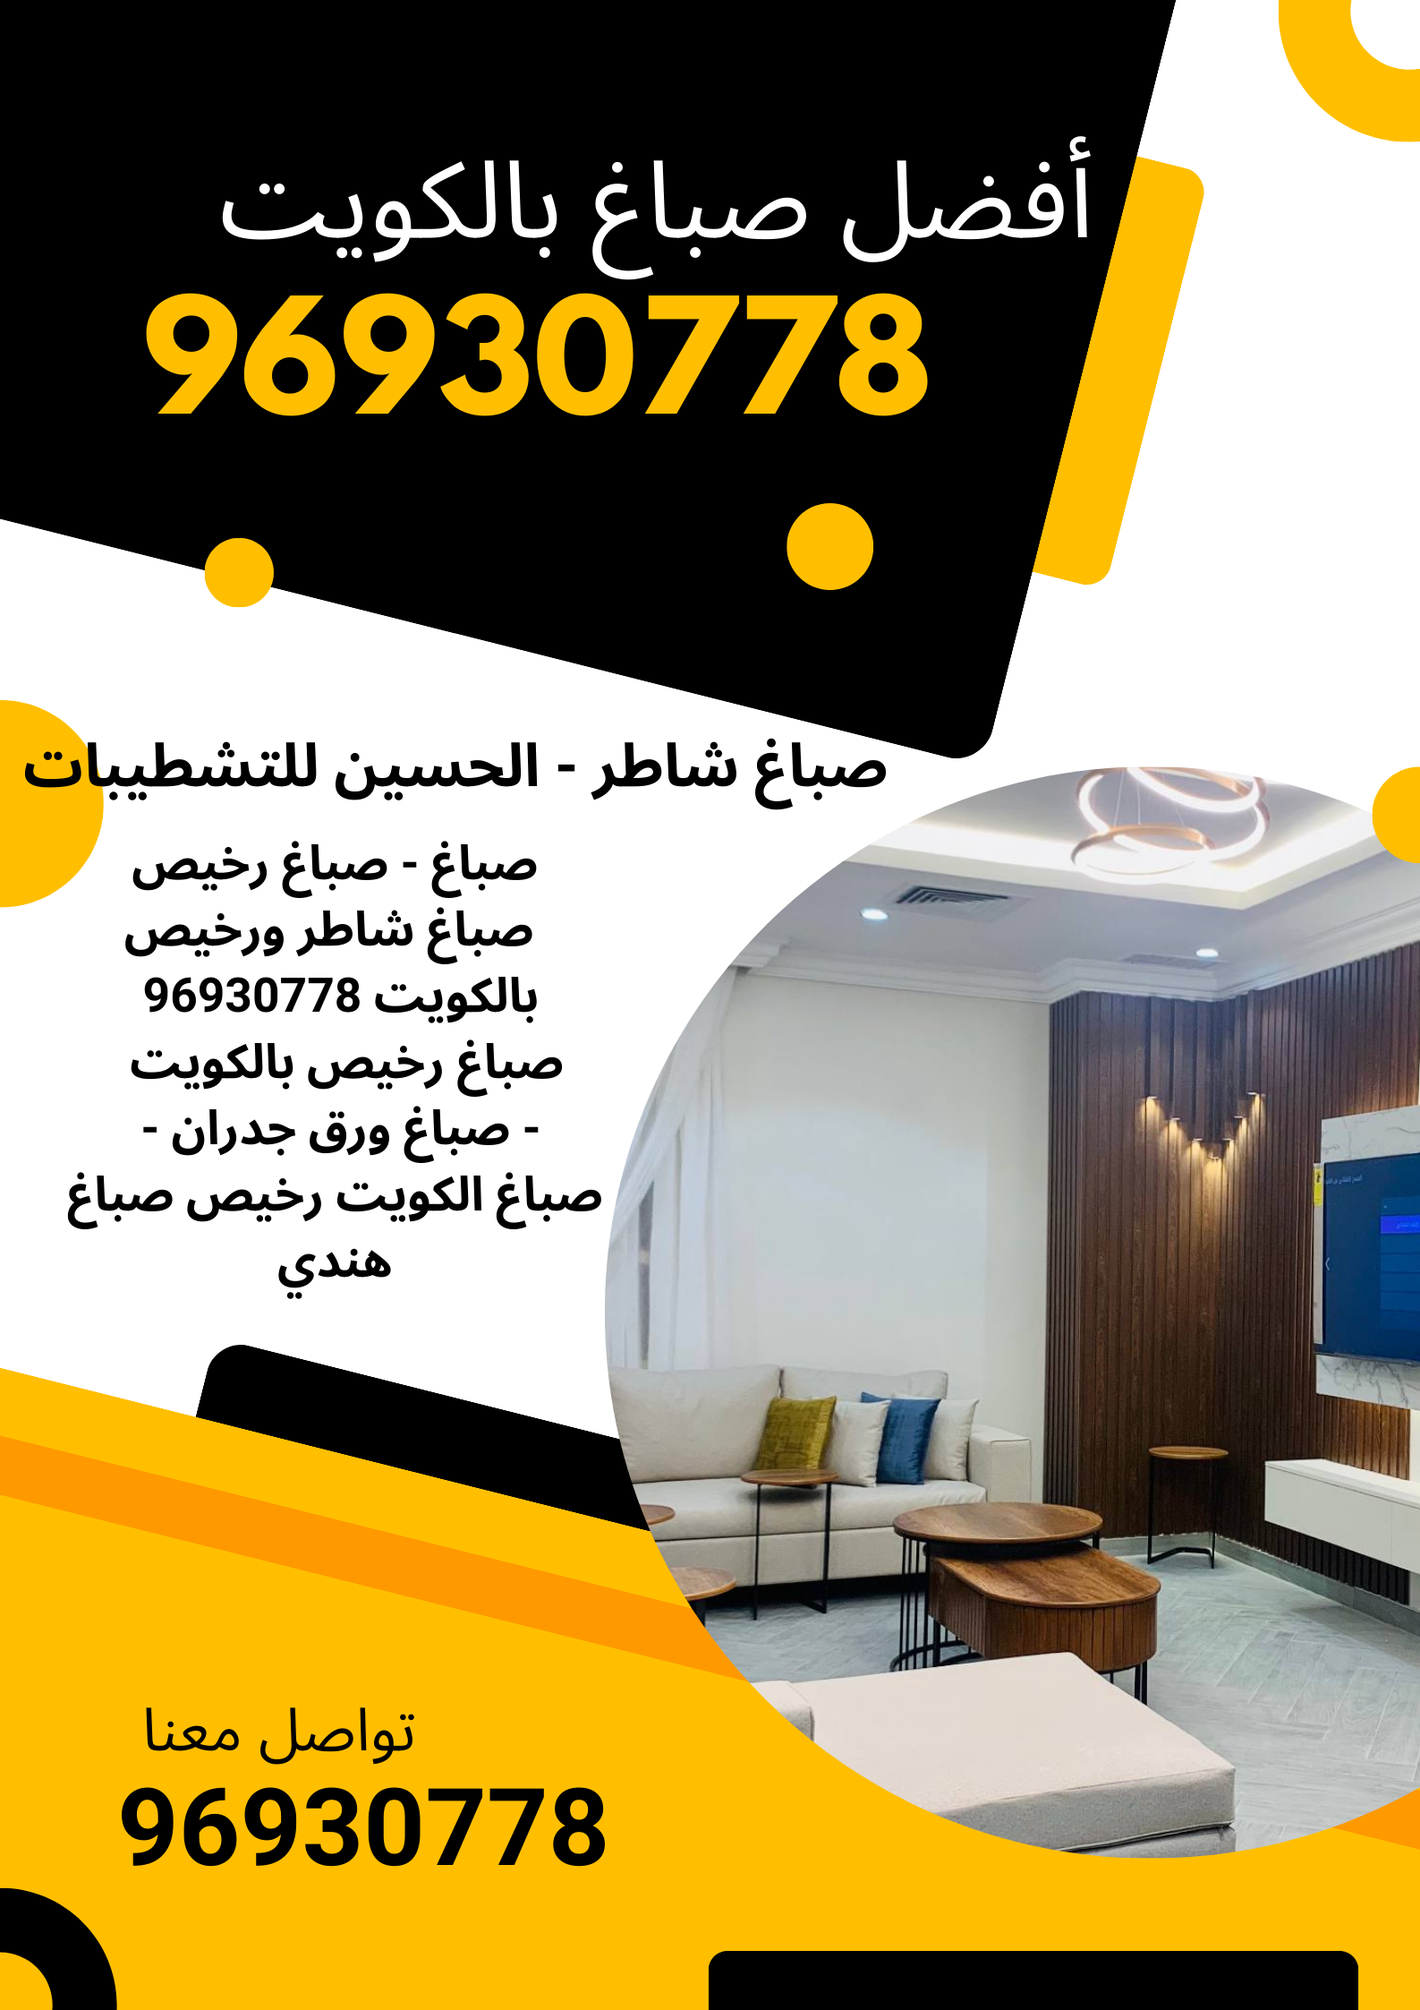
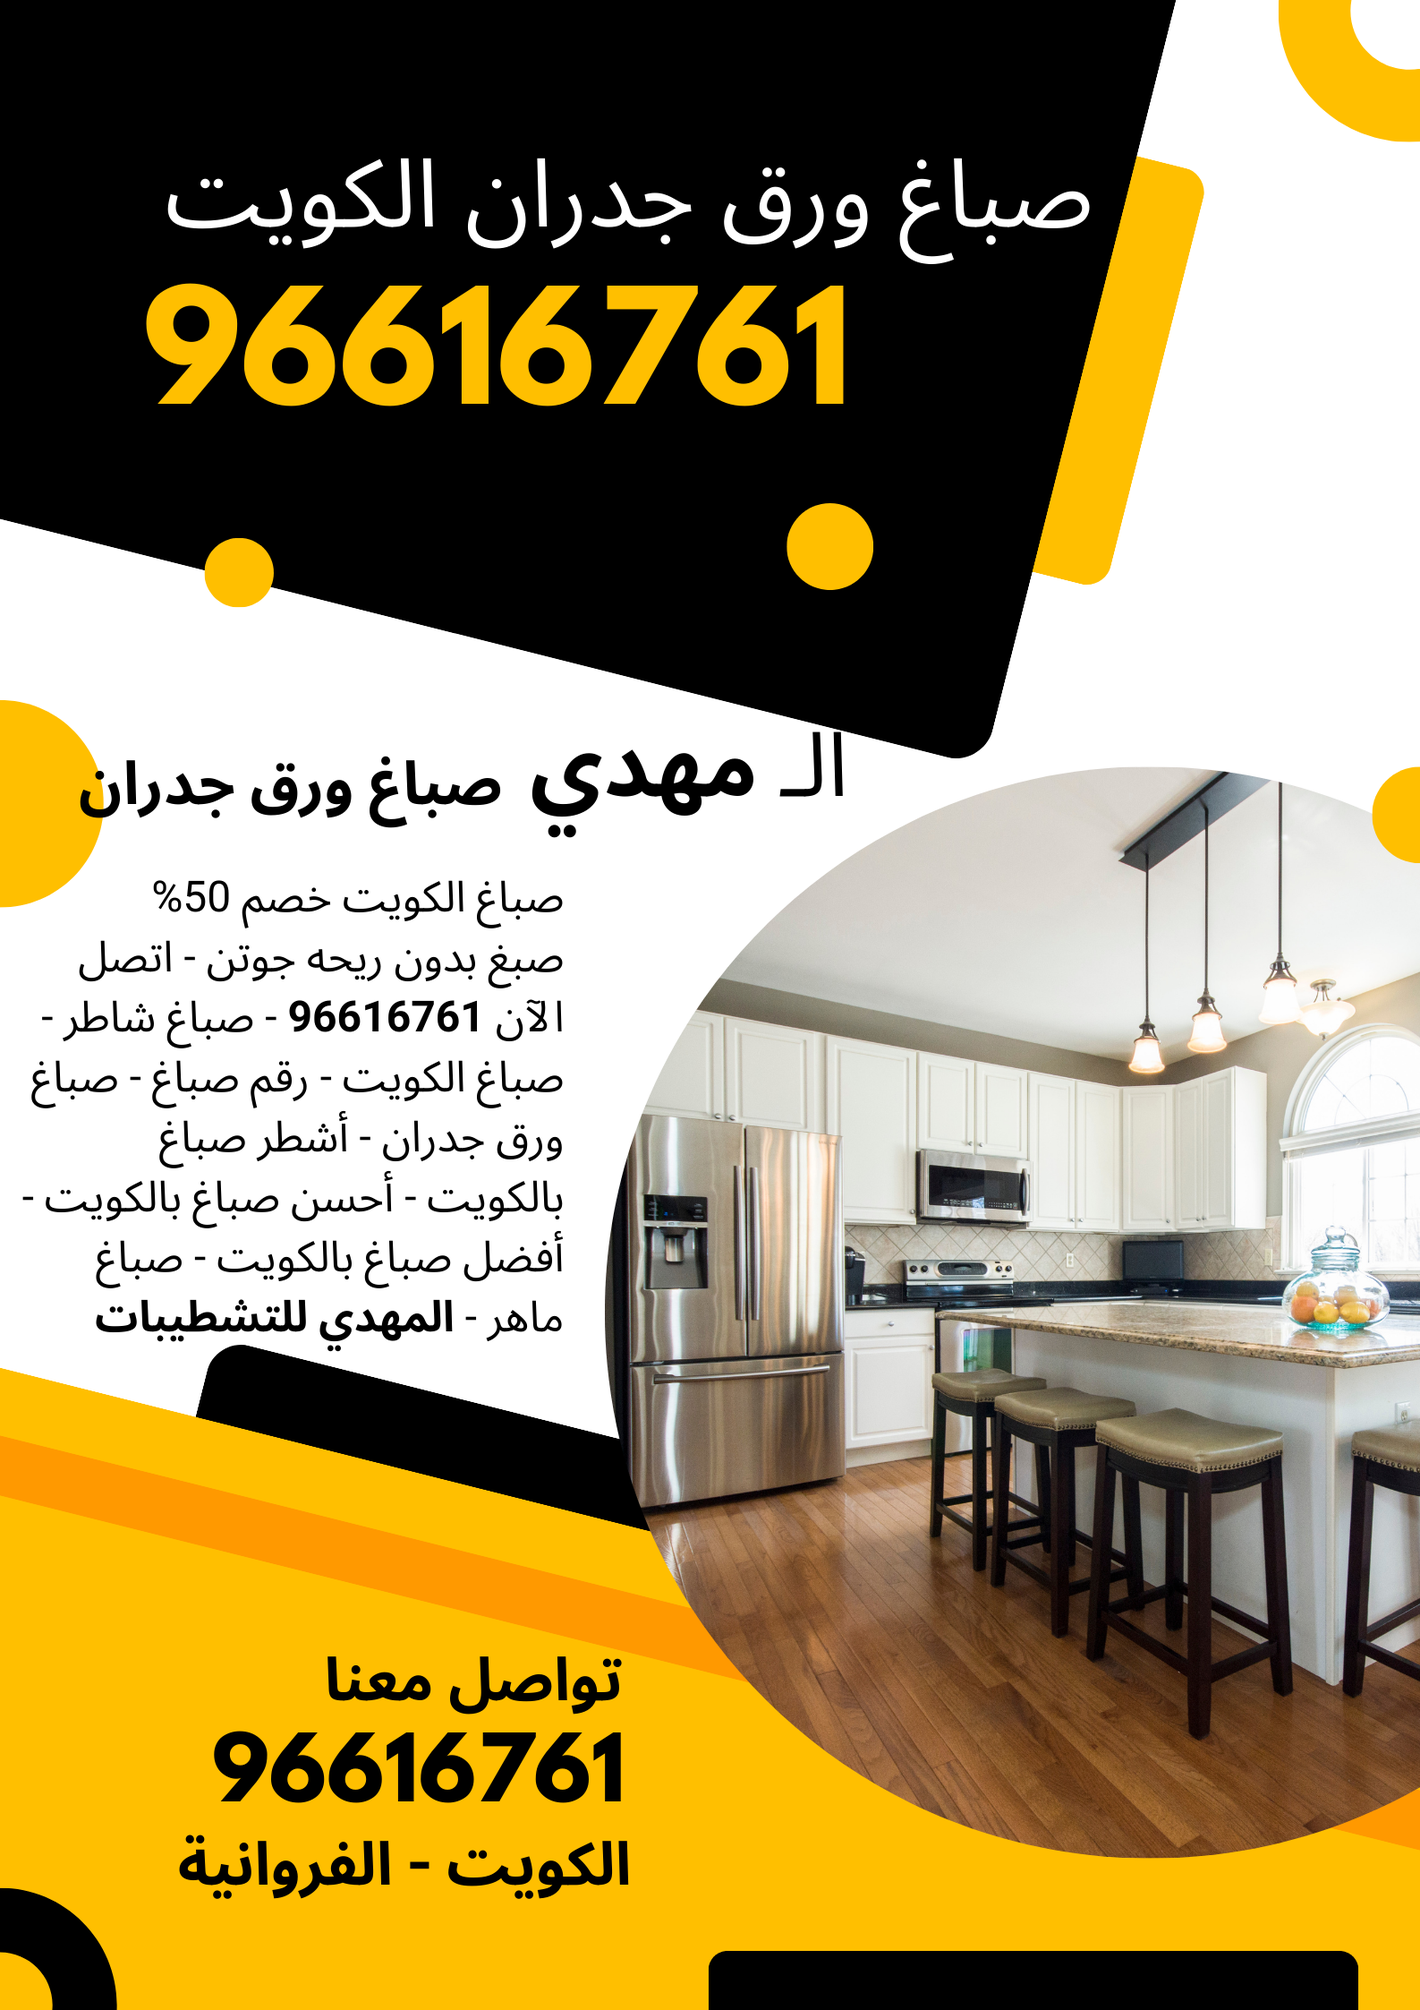
Edit title

diff --git a/index.html b/index.html
@@ -6,12 +6,7 @@
     <meta name="viewport" content="width=device-width, initial-scale=1.0" />
 
     <!-- Title -->
-    <title>
-      صباغ - صباغ رخيص - صباغ شاطر ورخيص - بالكويت 96616761 - صباغ رخيص بالكويت
-      - رقم صباغ رخيص - صباغ ورق جدران - صباغ الكويت رخيص - صباغ هندي - أشطر
-      صباغ بالكويت - أحسن صباغ بالكويت - أفضل صباغ بالكويت - صباغ ماهر - الحسين
-      للتشطيبات
-    </title>
+    <title>صباغ الكويت ✔🇰🇼 خصم 50% أفضل خدمة صباغة - اتصل الآن 96616761 - صبغ بدون ريحه جوتن - صباغ شاطر - رقم صباغ - صباغ ورق جدران - أشطر صباغ بالكويت - أحسن صباغ بالكويت - أفضل صباغ بالكويت - صباغ ماهر - المهدي للتشطيبات</title>
 
     <link
       rel="icon"
@@ -86,7 +81,7 @@
     <!-- Open Graph Tags -->
     <meta
       property="og:title"
-      content="صباغ - صباغ رخيص - صباغ شاطر ورخيص - بالكويت 96616761 - صباغ رخيص بالكويت - رقم صباغ رخيص - صباغ ورق جدران - صباغ الكويت رخيص - صباغ هندي - آفضل وأحسن وأشطر صباغ بالكويت - صباغ ماهر - الحسين للتشطيبات"
+      content="صباغ - صباغ رخيص - صباغ شاطر ورخيص - بالكويت 96616761 - صباغ رخيص بالكويت - رقم صباغ رخيص - صباغ ورق جدران - صباغ الكويت رخيص - صباغ هندي - آفضل وأحسن وأشطر صباغ بالكويت - صباغ ماهر - المهدي للتشطيبات"
     />
     <meta
       property="og:description"
@@ -103,7 +98,7 @@
     <meta name="twitter:card" content="./img/bg1.webp" />
     <meta
       name="twitter:title"
-      content="صباغ - صباغ رخيص - صباغ شاطر ورخيص - بالكويت 96616761 - صباغ رخيص بالكويت - رقم صباغ رخيص - صباغ ورق جدران - صباغ الكويت رخيص - صباغ هندي - أفضل وأحسن وأشطر صباغ بالكويت - صباغ ماهر - الحسين للتشطيبات"
+      content="صباغ - صباغ رخيص - صباغ شاطر ورخيص - بالكويت 96616761 - صباغ رخيص بالكويت - رقم صباغ رخيص - صباغ ورق جدران - صباغ الكويت رخيص - صباغ هندي - أفضل وأحسن وأشطر صباغ بالكويت - صباغ ماهر - المهدي للتشطيبات"
     />
     <meta
       name="twitter:description"
@@ -133,7 +128,7 @@
       {
         "@context": "https://schema.org",
         "@type": "LocalBusiness",
-        "name": "صباغ - صباغ رخيص - صباغ شاطر ورخيص - بالكويت 96616761 - صباغ رخيص بالكويت - رقم صباغ رخيص - صباغ ورق جدران - صباغ الكويت رخيص - صباغ هندي - الحسين للتشطيبات",
+        "name": "صباغ - صباغ رخيص - صباغ شاطر ورخيص - بالكويت 96616761 - صباغ رخيص بالكويت - رقم صباغ رخيص - صباغ ورق جدران - صباغ الكويت رخيص - صباغ هندي - المهدي للتشطيبات",
         "description": "ال حسين للتشطيبات - خدمات تشطيب ودهان عالية الجودة في الكويت، بخبرة متميزة وأرخص الأسعار. احصل على أفضل صباغ بالكويت وتصميمات عصرية تضفي لمسة فنية لمنزلك. اتصل بنا اليوم على 96616761!",
         "url": "https://elhassan-dyer.com",
         "logo": "https://elhassan-dyer.com/img/bg1.webp",
@@ -185,8 +180,8 @@
         "@context": "https://schema.org",
         "@type": "ImageObject",
         "contentUrl": "https://elhassan-dyer.com/img/best-painter-kuwait.png",
-        "description": "صباغ - صباغ رخيص - صباغ شاطر ورخيص - بالكويت 96616761 - صباغ رخيص بالكويت - رقم صباغ رخيص - صباغ ورق جدران - صباغ الكويت رخيص - صباغ هندي - أفضل وأحسن وأشطر صباغ بالكويت - صباغ ماهر - الحسين للتشطيبات. احصل على أجمل التصاميم والدهانات بأسعار تنافسية",
-        "name": "أفضل صباغ بالكويت - الحسين للتشطيبات",
+        "description": "صباغ - صباغ رخيص - صباغ شاطر ورخيص - بالكويت 96616761 - صباغ رخيص بالكويت - رقم صباغ رخيص - صباغ ورق جدران - صباغ الكويت رخيص - صباغ هندي - أفضل وأحسن وأشطر صباغ بالكويت - صباغ ماهر - المهدي للتشطيبات. احصل على أجمل التصاميم والدهانات بأسعار تنافسية",
+        "name": "أفضل صباغ بالكويت - المهدي للتشطيبات",
         "url": "https://elhassan-dyer.com/"
       }
     </script>
@@ -196,7 +191,7 @@
         "@context": "https://schema.org",
         "@type": "ImageObject",
         "contentUrl": "https://elhassan-dyer.com/img/painter-kuwait-advertisement.png",
-        "description": "صباغ - صباغ رخيص - صباغ شاطر ورخيص - بالكويت 96616761 - صباغ رخيص بالكويت - رقم صباغ رخيص - صباغ ورق جدران - صباغ الكويت رخيص - صباغ هندي - أفضل وأحسن وأشطر صباغ بالكويت - صباغ ماهر - الحسين للتشطيبات. احصل على أجمل التصاميم والدهانات بأسعار تنافسية",
+        "description": "صباغ - صباغ رخيص - صباغ شاطر ورخيص - بالكويت 96616761 - صباغ رخيص بالكويت - رقم صباغ رخيص - صباغ ورق جدران - صباغ الكويت رخيص - صباغ هندي - أفضل وأحسن وأشطر صباغ بالكويت - صباغ ماهر - المهدي للتشطيبات. احصل على أجمل التصاميم والدهانات بأسعار تنافسية",
         "name": "إعلان صباغ الكويت",
         "url": "https://elhassan-dyer.com/"
       }
@@ -205,8 +200,8 @@
       {
         "@context": "https://schema.org",
         "@type": "WebPage",
-        "name": "صباغ - صباغ رخيص - صباغ شاطر ورخيص - بالكويت 96616761 - صباغ رخيص بالكويت - رقم صباغ رخيص - صباغ ورق جدران - صباغ الكويت رخيص - صباغ هندي - أفضل وأحسن وأشطر صباغ بالكويت - صباغ ماهر - الحسين للتشطيبات",
-        "description": "الحسين للتشطيبات يقدم خدمات صباغة ودهانات رخيصة وذات جودة عالية بالكويت. اتصل الآن على 96616761 لأفضل العروض والخدمات المميزة."
+        "name": "صباغ - صباغ رخيص - صباغ شاطر ورخيص - بالكويت 96616761 - صباغ رخيص بالكويت - رقم صباغ رخيص - صباغ ورق جدران - صباغ الكويت رخيص - صباغ هندي - أفضل وأحسن وأشطر صباغ بالكويت - صباغ ماهر - المهدي للتشطيبات",
+        "description": "المهدي للتشطيبات يقدم خدمات صباغة ودهانات رخيصة وذات جودة عالية بالكويت. اتصل الآن على 96616761 لأفضل العروض والخدمات المميزة."
       }
     </script>
 
@@ -544,7 +539,7 @@
 
       <div class="container py-2">
         <a class="navbar-brand fs-4 fw-bold text-uppercase" href="#home">
-          الحسين
+          المهدي
         </a>
 
         <div class="d-flex align-items-center gap-2">
@@ -653,9 +648,7 @@
         </p>
 
         <h1 class="translate-ar">
-          صباغ - صباغ رخيص - صباغ شاطر ورخيص - بالكويت 96616761 - صباغ رخيص
-          بالكويت - رقم صباغ رخيص - صباغ ورق جدران - صباغ الكويت رخيص - صباغ
-          هندي - أفضل وأحسن وأشطر صباغ بالكويت - صباغ ماهر - الحسين للتشطيبات
+          صباغ الكويت خصم 50% - صبغ بدون ريحه جوتن - اتصل الآن 96616761 - صباغ شاطر - صباغ الكويت - رقم صباغ - صباغ ورق جدران - أشطر صباغ بالكويت - أحسن صباغ بالكويت - أفضل صباغ بالكويت - صباغ ماهر - المهدي للتشطيبات
         </h1>
         <h1 class="translate-en d-none">
           Painter in Kuwait, affordable painter, skilled and affordable painter
@@ -788,13 +781,13 @@
                 <img
                   src="./img/best-painter-kuwait.png"
                   class="w-100 fade-image"
-                  alt="صباغ - صباغ رخيص - صباغ شاطر ورخيص - بالكويت 96616761 - صباغ رخيص بالكويت - رقم صباغ رخيص - صباغ ورق جدران - صباغ الكويت رخيص - صباغ هندي - أفضل وأحسن وأشطر صباغ بالكويت - صباغ ماهر - الحسين للتشطيبات. احصل على أجمل التصاميم والدهانات بأسعار تنافسية"
+                  alt="صباغ - صباغ رخيص - صباغ شاطر ورخيص - بالكويت 96616761 - صباغ رخيص بالكويت - رقم صباغ رخيص - صباغ ورق جدران - صباغ الكويت رخيص - صباغ هندي - أفضل وأحسن وأشطر صباغ بالكويت - صباغ ماهر - المهدي للتشطيبات. احصل على أجمل التصاميم والدهانات بأسعار تنافسية"
                   loading="lazy"
                 />
                 <img
                   src="./img/painter-kuwait-advertisement.png"
                   class="w-100 fade-image"
-                  alt="صباغ - صباغ رخيص - صباغ شاطر ورخيص - بالكويت 96616761 - صباغ رخيص بالكويت - رقم صباغ رخيص - صباغ ورق جدران - صباغ الكويت رخيص - صباغ هندي - أفضل وأحسن وأشطر صباغ بالكويت - صباغ ماهر - الحسين للتشطيبات. احصل على أجمل التصاميم والدهانات بأسعار تنافسية"
+                  alt="صباغ - صباغ رخيص - صباغ شاطر ورخيص - بالكويت 96616761 - صباغ رخيص بالكويت - رقم صباغ رخيص - صباغ ورق جدران - صباغ الكويت رخيص - صباغ هندي - أفضل وأحسن وأشطر صباغ بالكويت - صباغ ماهر - المهدي للتشطيبات. احصل على أجمل التصاميم والدهانات بأسعار تنافسية"
                   loading="lazy"
                 />
               </div>

diff --git a/JS/main.js b/JS/main.js
@@ -12,11 +12,7 @@ function setLanguage(lang) {
     } else if (lang === 'ar') {
         elementsEn.forEach(el => el.classList.add('d-none'));
         elementsAr.forEach(el => el.classList.remove('d-none'));
-        document.title = `
-    صباغ - صباغ رخيص - صباغ شاطر ورخيص - بالكويت 96616761 - صباغ رخيص بالكويت - رقم صباغ رخيص - 
-    صباغ ورق جدران - صباغ الكويت رخيص - صباغ هندي - أشطر صباغ بالكويت - أحسن صباغ بالكويت - 
-    أفضل صباغ بالكويت - صباغ ماهر - الحسين للتشطيبات
-`;
+        document.title = `صباغ الكويت ✔🇰🇼  خصم 50% أفضل خدمة صباغة - اتصل الأن 96616761  - صبغ بدون ريحه جوتن - صباغ شاطر - صباغ الكويت - رقم صباغ - صباغ ورق جدران - أشطر صباغ بالكويت - أحسن صباغ بالكويت - أفضل صباغ بالكويت - صباغ ماهر - المهدي للتشطيبات`;
 
     }
 }
